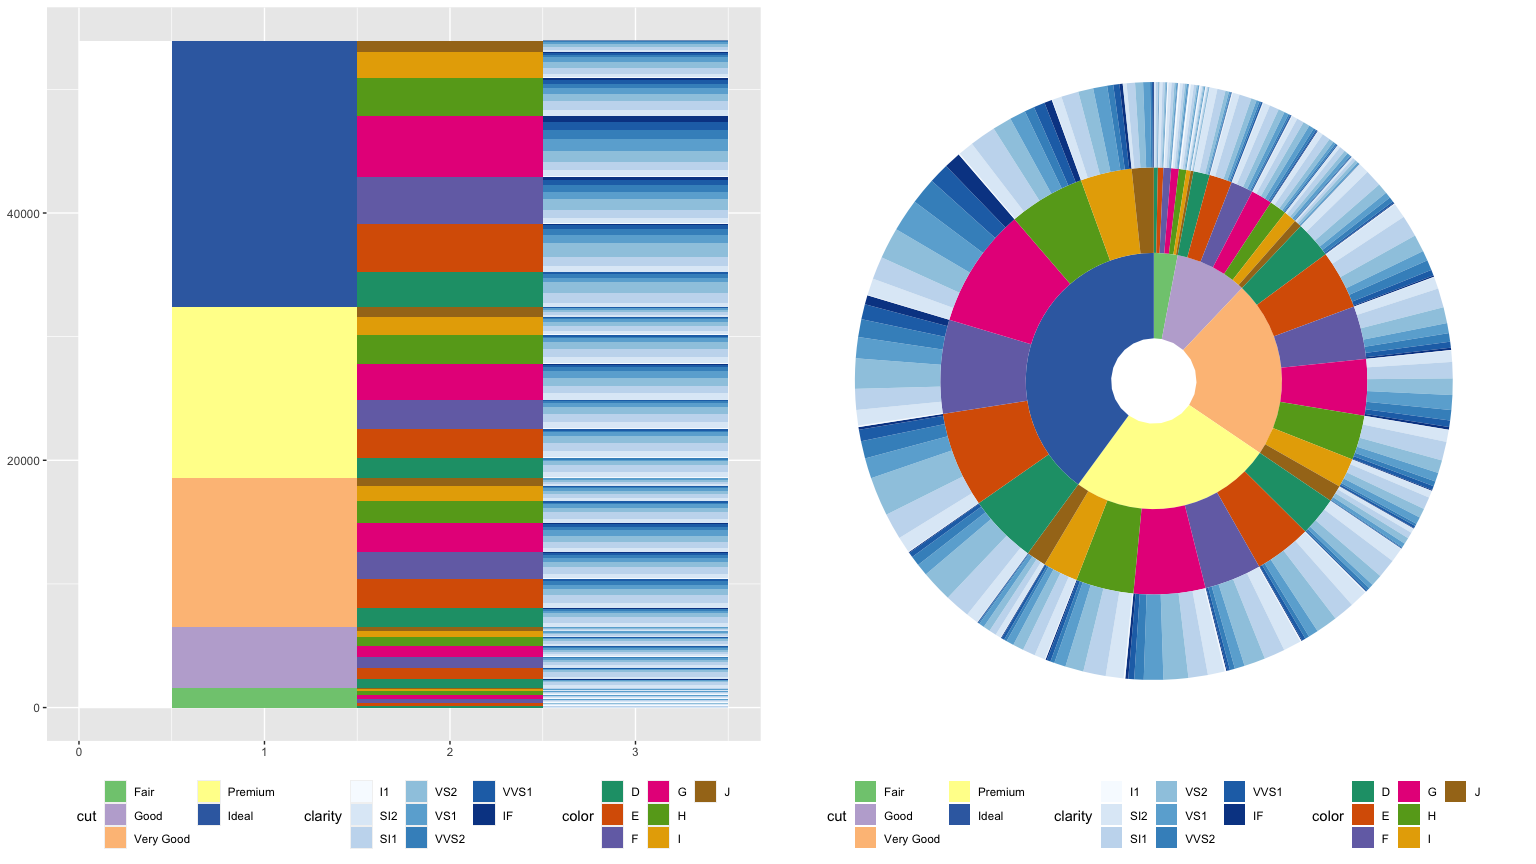
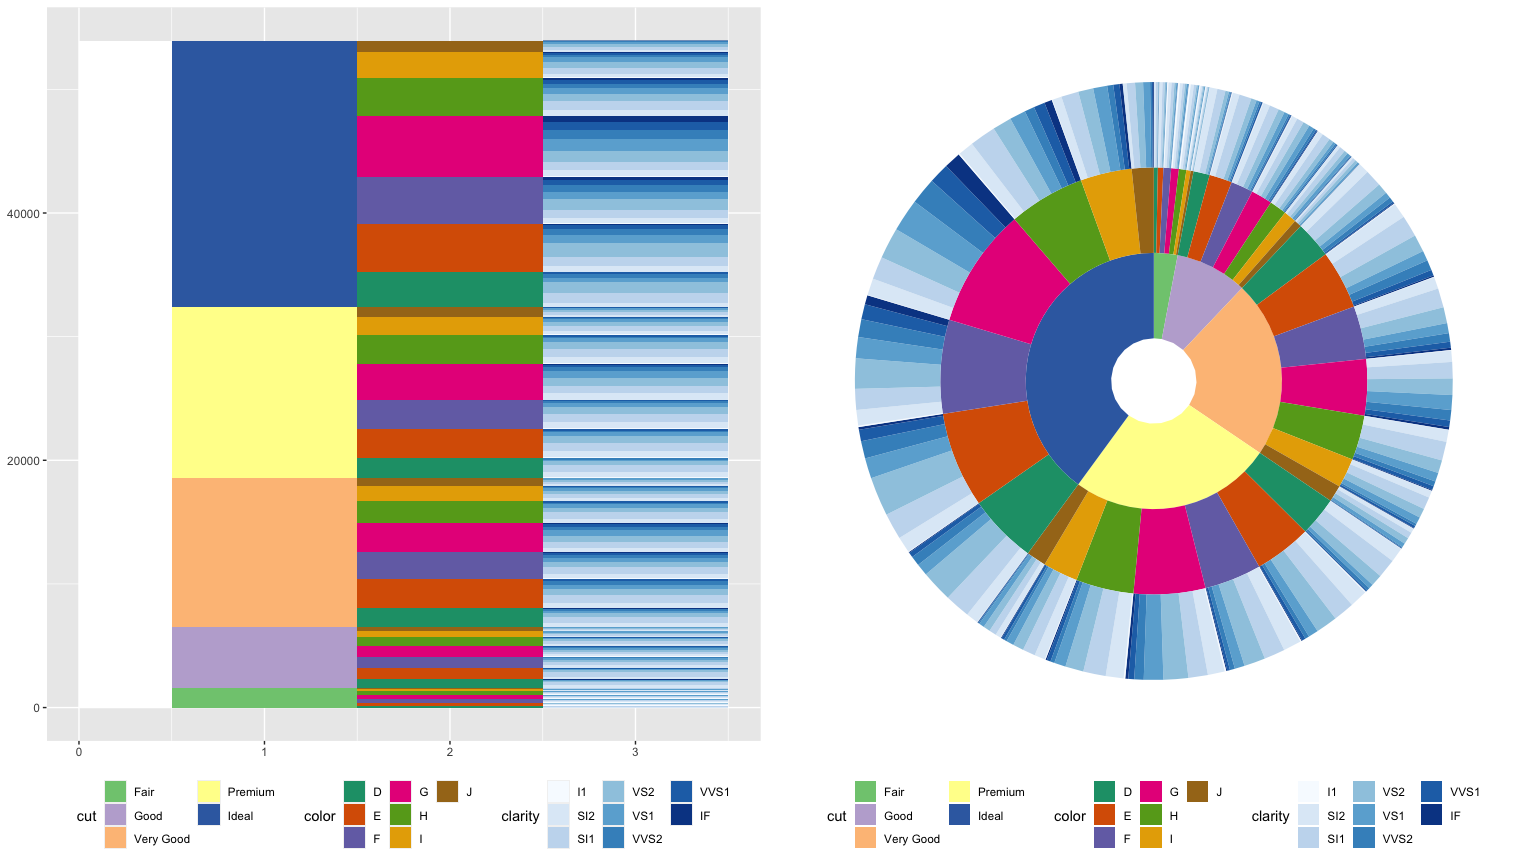
correct order of the legends

Changed region(s): [[0.1875, 0.9062, 0.4688, 1.0], [0.6875, 0.9062, 0.9688, 1.0]]

diff --git a/README.md b/README.md
@@ -74,9 +74,9 @@ three data.frames (I’ll be using data.tables) to summarize the data.
       scale_fill_brewer(palette = 1) +
 
       theme(legend.position = "bottom") +
-      guides(fill = guide_legend(position = 3, nrow = 3),
-             fill_new = guide_legend(position = 2, nrow = 3),
-             fill_new_new = guide_legend(position = 1, nrow = 3))
+      guides(fill         = guide_legend(order = 3, nrow = 3),
+             fill_new     = guide_legend(order = 2, nrow = 3),
+             fill_new_new = guide_legend(order = 1, nrow = 3))
 
     # build the sunburst plot
     g_sb <-
@@ -224,15 +224,14 @@ Build similar summary data sets as was done in Example 1
       theme(legend.position = "bottom") +
       coord_polar(theta = "y") +
       theme_classic() +
-      theme(#legend.position = "bottom",
-            axis.title = element_blank(),
+      theme(axis.title = element_blank(),
             axis.text  = element_blank(),
             axis.ticks = element_blank(),
             axis.line  = element_blank()) +
-      guides(fill             = guide_legend(position = 4, ncol = 2),
-             fill_new         = guide_legend(position = 3, ncol = 2),
-             fill_new_new     = guide_legend(position = 2, ncol = 2),
-             fill_new_new_new = guide_legend(position = 1, ncol = 2))
+      guides(fill             = guide_legend(order = 4, ncol = 2),
+             fill_new         = guide_legend(order = 3, ncol = 2),
+             fill_new_new     = guide_legend(order = 2, ncol = 2),
+             fill_new_new_new = guide_legend(order = 1, ncol = 2))
     g1
 
 ![](README_files/figure-markdown_strict/rad_sunburst_1-1.png)
